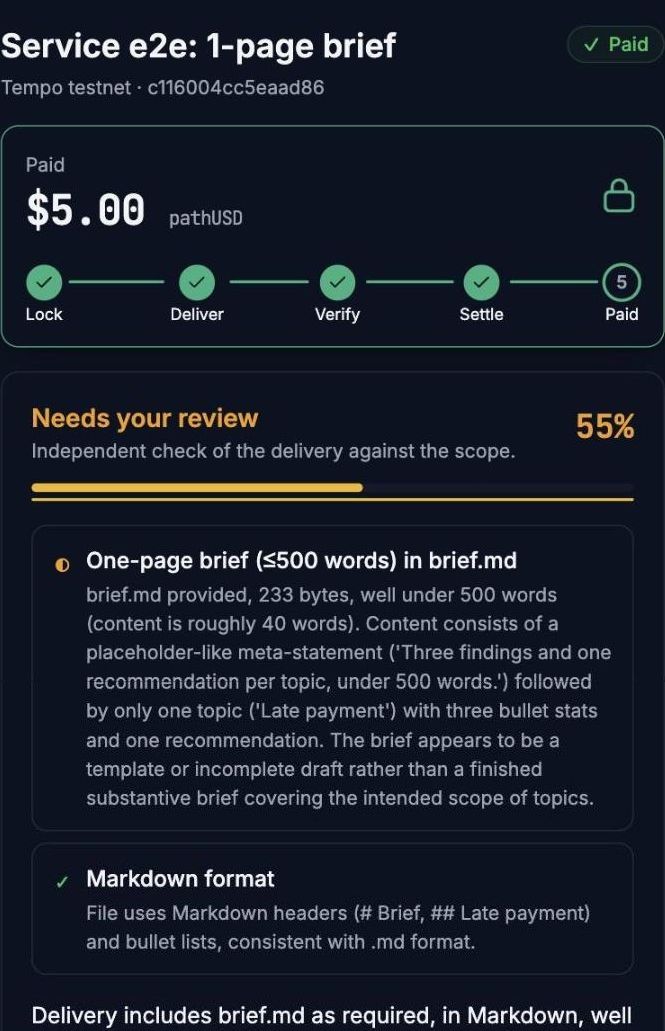
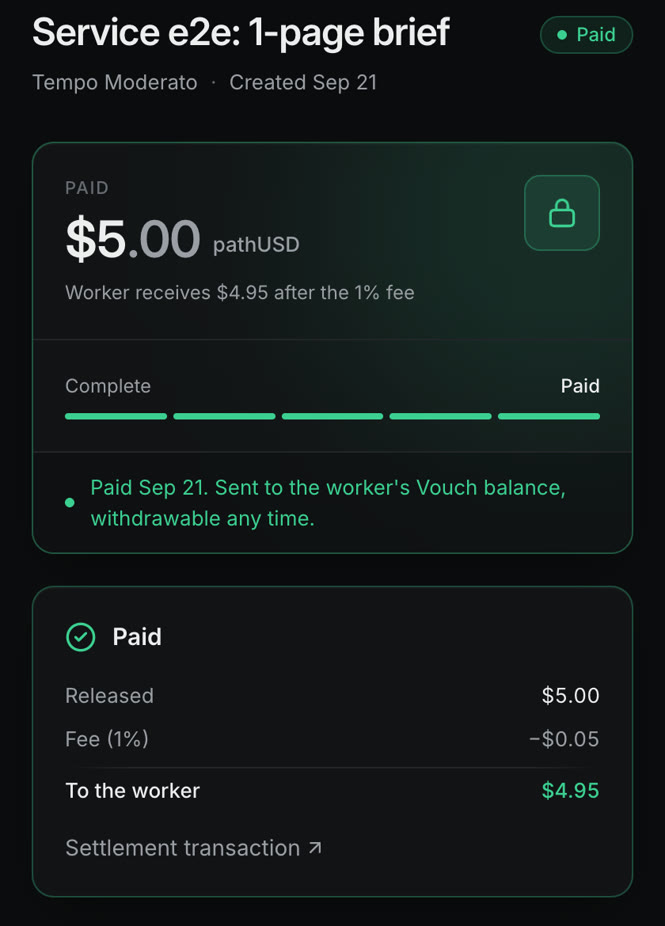
auth token is attached before the first signed-in request (no 401 on first load); job page refetches with the viewer's role once sign-in resolves; landing product shot shows the redesigned job page

diff --git a/apps/web/src/components/privy-shell.tsx b/apps/web/src/components/privy-shell.tsx
@@ -1,5 +1,5 @@
 "use client";
-import { useEffect, useMemo, type ReactNode } from "react";
+import { useMemo, type ReactNode } from "react";
 import { PrivyProvider, usePrivy, useWallets } from "@privy-io/react-auth";
 import { base, baseSepolia, tempo, tempoModerato } from "viem/chains";
 import type { Address, EIP1193Provider } from "viem";
@@ -12,9 +12,9 @@ const CHAINS = [tempo, tempoModerato, base, baseSepolia];
 function Bridge({ children }: { children: ReactNode }) {
   const { getAccessToken, authenticated, ready, login, logout, user } = usePrivy();
   const { wallets } = useWallets();
-  useEffect(() => {
-    setTokenGetter(async () => (ready && authenticated ? getAccessToken() : null));
-  }, [getAccessToken, authenticated, ready]);
+  // Set during render, not in an effect: child effects (the first queries) run before a parent's effect,
+  // so an effect-set getter let the first authenticated requests go out without a token and 401.
+  setTokenGetter(async () => (ready && authenticated ? getAccessToken() : null));
   const wallet = wallets.find((w) => w.walletClientType === "privy") ?? wallets[0];
   const value = useMemo<Auth>(
     () => ({

diff --git a/apps/web/src/app/(app)/j/[id]/job-view.tsx b/apps/web/src/app/(app)/j/[id]/job-view.tsx
@@ -18,6 +18,7 @@ import { Activity, ScopeView } from "@/components/job/activity";
 import { Padlock } from "@/components/job/padlock";
 import { ease, useMotion } from "@/components/motion";
 import { useJob, useNow, type JobSnapshot } from "@/lib/client/hooks";
+import { useAuth } from "@/lib/client/auth";
 import { cn } from "@/lib/utils";
 
 export type JobInitial = JobSnapshot;
@@ -76,6 +77,11 @@ export function JobView({ id, initial }: { id: string; initial?: JobInitial | nu
   const now = useNow(1000);
   const [justLocked, setJustLocked] = useState(false);
   const [justPaid, setJustPaid] = useState(false);
+  const { ready, authenticated } = useAuth();
+  // The first fetch can run before sign-in resolves (public view); refetch once it does, to get the viewer's role.
+  useEffect(() => {
+    if (ready && authenticated) void qc.invalidateQueries({ queryKey: ["job", id] });
+  }, [ready, authenticated, qc, id]);
   const onChange = (j: JobDto) => {
     if (job && job.status === "Open" && j.status === "Funded") setJustLocked(true);
     if (job && !PAID.has(job.status) && PAID.has(j.status)) setJustPaid(true);

diff --git a/apps/web/src/assets/img/CREDITS.md b/apps/web/src/assets/img/CREDITS.md
@@ -7,4 +7,4 @@ All photos are from Unsplash under the Unsplash License (free to use, no attribu
 | worker-desk.jpg | Adeniji Abdullahi A (@akinggraphic) | https://unsplash.com/photos/rH5kewe_3IE |
 | worker-writing.jpg | manny PANTOJA (@mann_pantoja) | https://unsplash.com/photos/P2-4kxFhvCQ |
 | paid-phone.jpg | Nel Ranoko (@nel_ranoko) | https://unsplash.com/photos/iaHFmpXVltw |
-| product-job.jpg | Screenshot of the job page (dark theme) for the job that settled on the public deployment (Moderato testnet), 2026-09-22 | https://vouch-rouge.vercel.app/j/0xc116004cc5eaad86fce7c8b3497ca0c4b201c3f880142cb272994706ed6226fe |
+| product-job.jpg | Screenshot of the redesigned job page for the job that settled on the public deployment (Moderato testnet), 2026-09-26 | https://vouch-rouge.vercel.app/j/0xc116004cc5eaad86fce7c8b3497ca0c4b201c3f880142cb272994706ed6226fe |
